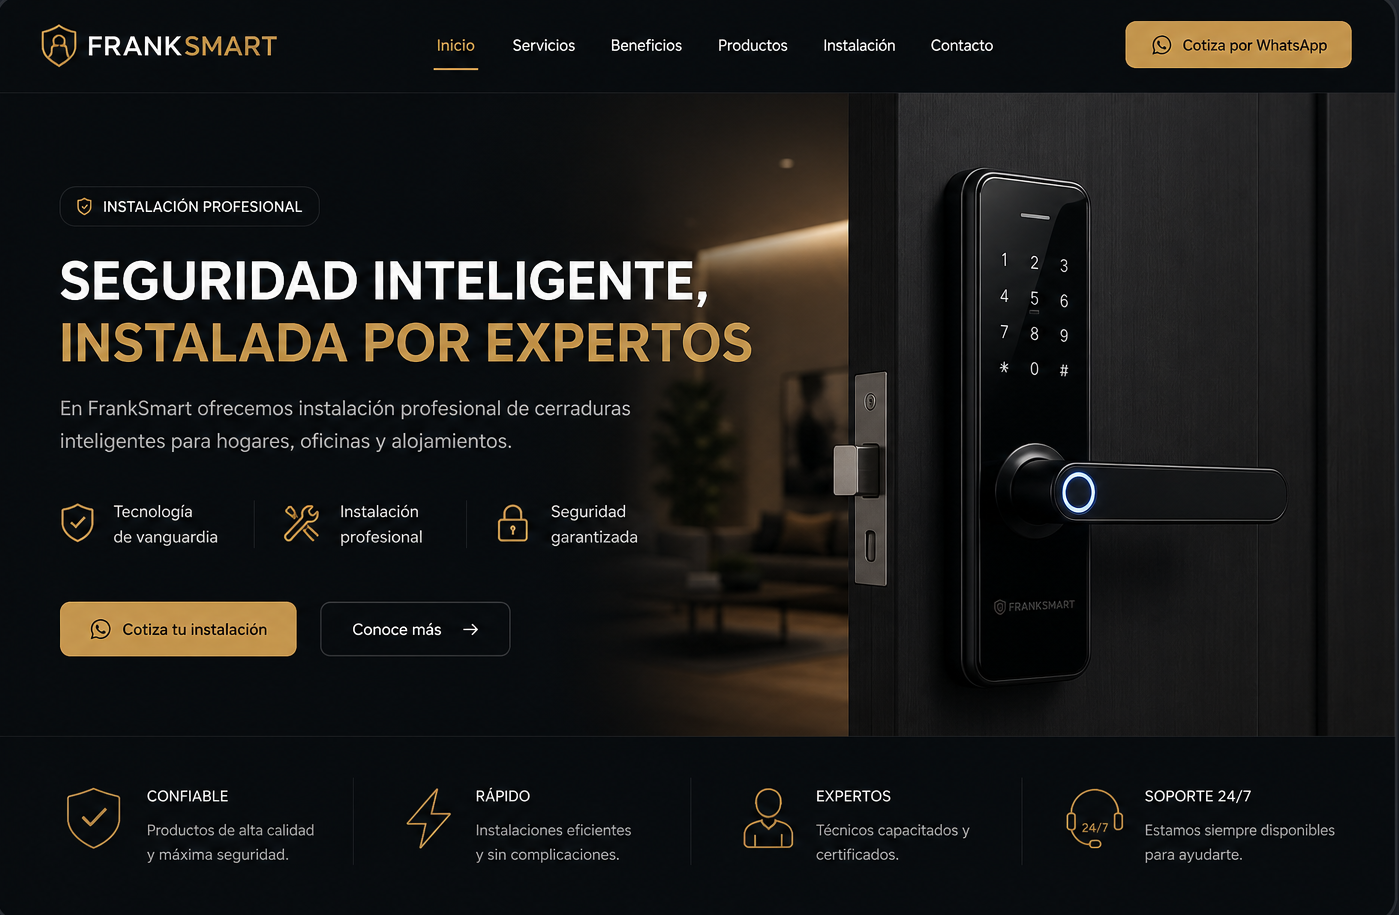
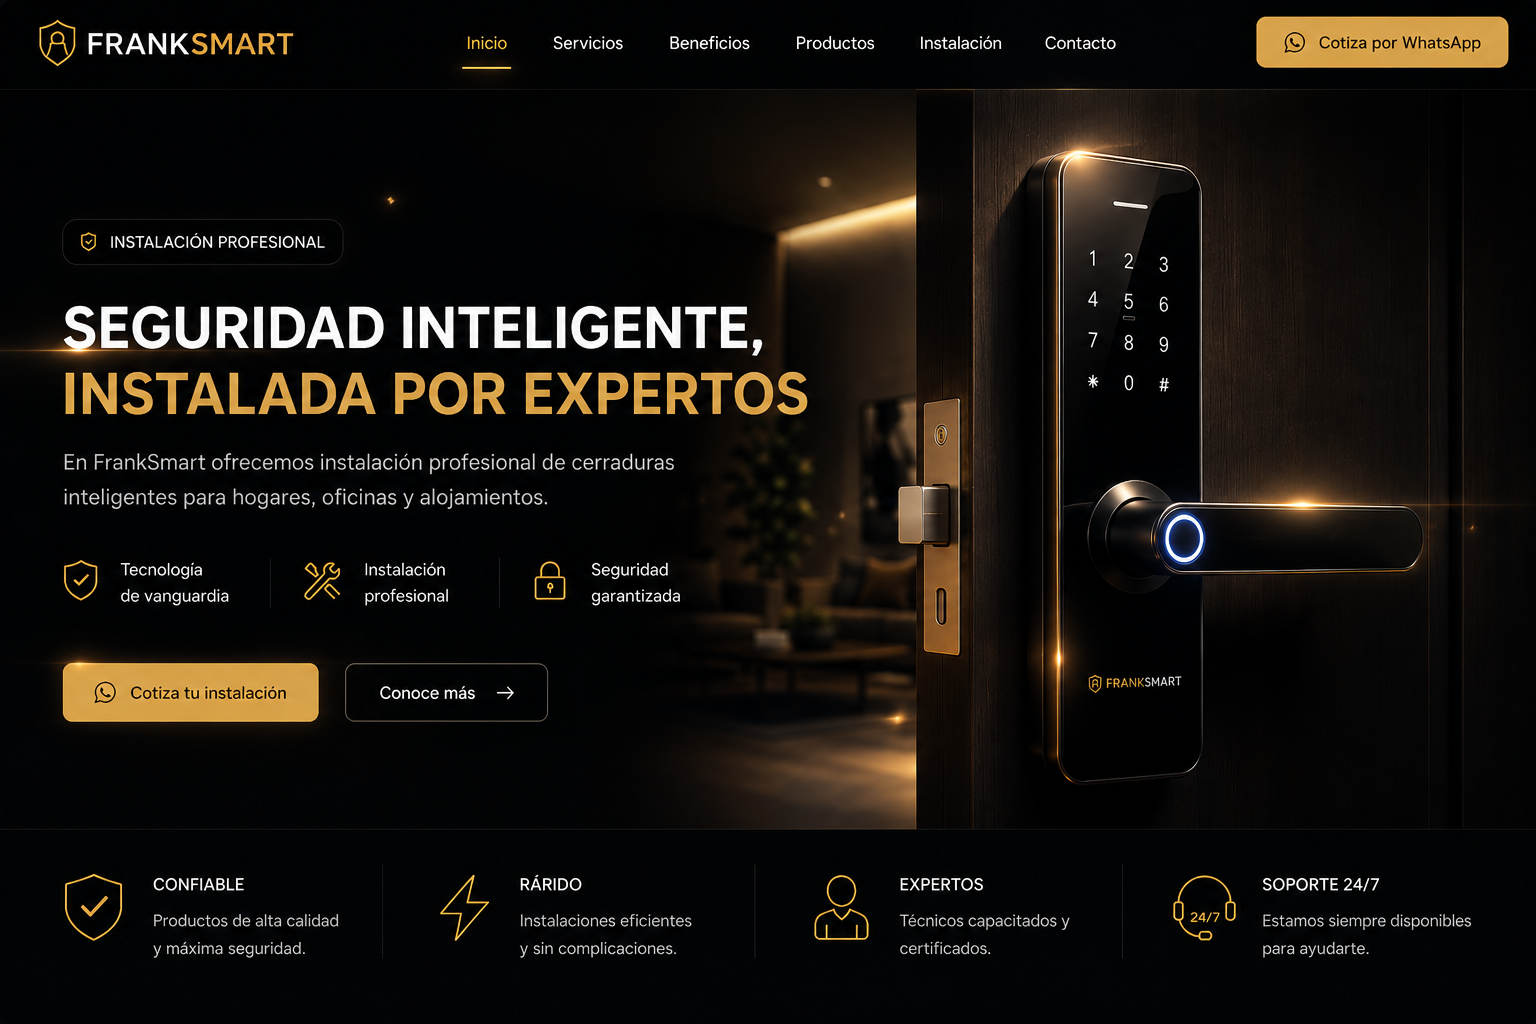
feat:integracion de nuevos recursos en projects

diff --git a/src/sections/ProjectsSection.tsx b/src/sections/ProjectsSection.tsx
@@ -39,7 +39,7 @@ const PROJECTS: Project[] = [
     description:
       'Landing page de e-commerce para una marca de moda femenina, enfocada en storytelling visual y conversión.',
     techStack: ['React', 'Tailwind CSS', 'Framer Motion'],
-    image: '/assets/diosainterior.png',
+    image: '/assets/diosainterior.gif ',
     link: 'https://example.com/diosa-interior',
   },
   {
@@ -49,7 +49,7 @@ const PROJECTS: Project[] = [
     description:
       'Plataforma web para servicios tecnológicos, con panel de administración y gestión de solicitudes en tiempo real.',
     techStack: ['React', 'TypeScript', 'Node.js', 'PostgreSQL'],
-    image: '/assets/postech.png',
+    image: '/assets/postech.gif',
     link: 'https://example.com/postech',
   },
   {